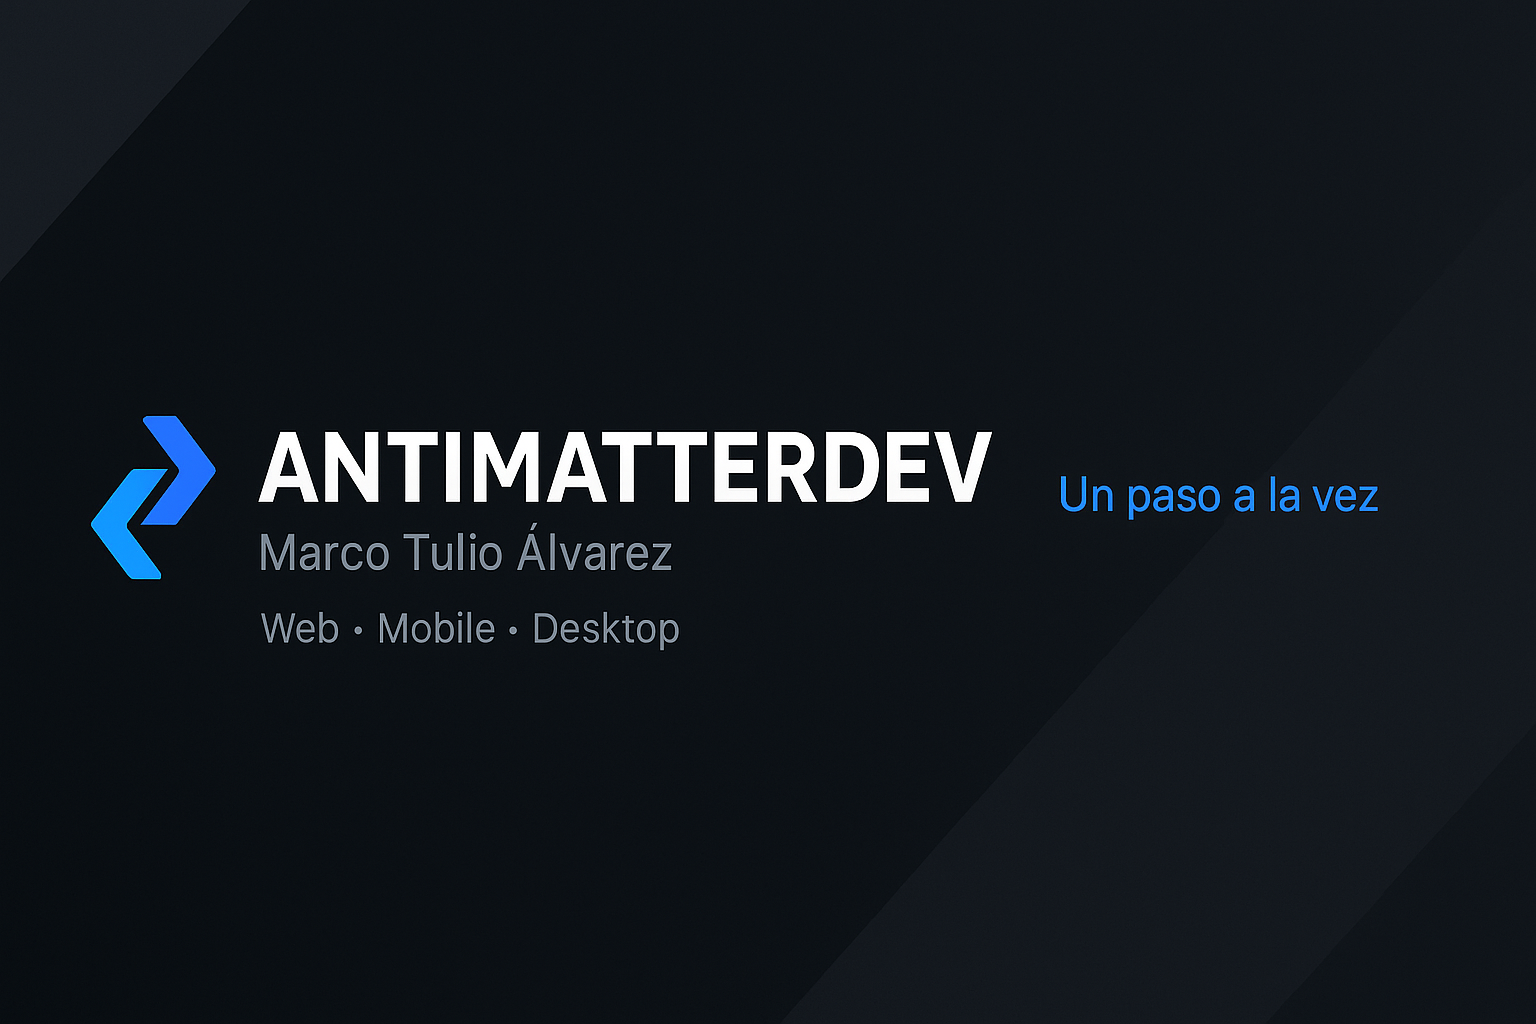
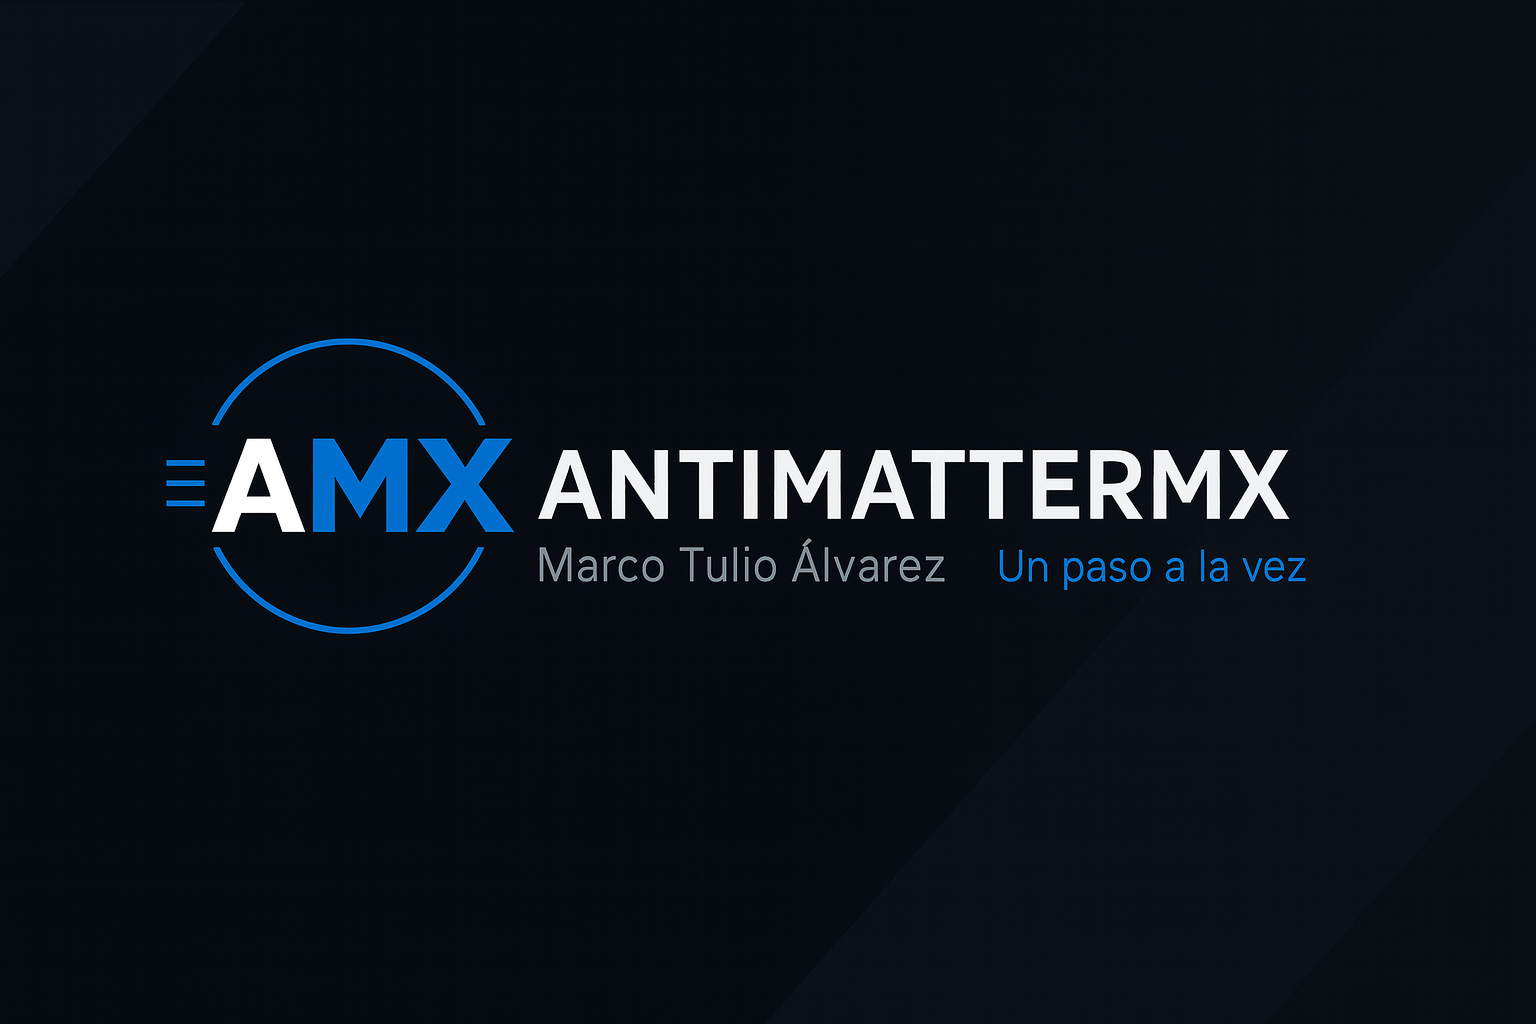
Cambios

diff --git a/README.md b/README.md
@@ -1,51 +1,53 @@
 <p align="center">
-  <img src="./resources/Antimatter.png" alt="Banner AntimatterDev" />
+  <img src="https://antimatter-mx.vercel.app/og-default.png" alt="AntimatterMX Banner" width="820"/>
 </p>
 
-# 👋 Hola, soy Marco Tulio Álvarez Barajas (Antimatter)
+# AntimatterMX — Prototipo
 
-💻 Desarrollador de software apasionado por crear soluciones innovadoras en **web, móvil y escritorio**.  
-🚀 Emprendedor detrás de proyectos como **AntimatterMX**, **Autopista Segura** y **New Vitta**, **MuscleMan**.  
-🌌 Amante de la tecnología, la programación y la creatividad.
+Soy **Marco Tulio Álvarez Barajas (AntimatterDev)**. Desarrollo **software, web y apps móviles** con enfoque en calidad, performance y resultados medibles.  
+Este repositorio/documento es **un prototipo** y refleja el estado actual de mis proyectos.
 
----
-
-## 🚀 Proyectos Destacados
-
-- 🔹 [**AntimatterDev**](#) → Servicios de desarrollo de software, web y apps móviles.  
-- 🔹 [**Autopista Segura**](#) → Sistema de monitoreo y control de velocidad en carreteras con C# y SQL Server.  
-- 🔹 [**New Vitta**](#) → Sistema de gestión para una clínica de rehabilitación (C#, SQL Server, customtkinter).  
-- 🔹 [**MuscleMan**](#) → Plataforma de administración de gimnasios.  
-- 🔹 [**Landmine 3D**](#) → Herramienta de modelado 3D en Python + OpenGL.
+- 🌐 Sitio: **https://antimatter-mx.vercel.app**
+- ✉ Contacto: **antimattermx@proton.me**
 
 ---
 
-## 🛠 Tecnologías & Herramientas
+## Proyectos
+> Estado estimado a la fecha. Se actualiza con frecuencia.
 
-![JavaScript](https://img.shields.io/badge/-JavaScript-05122A?style=flat&logo=javascript)  
-![Python](https://img.shields.io/badge/-Python-05122A?style=flat&logo=python)  
-![C#](https://img.shields.io/badge/-C%23-05122A?style=flat&logo=csharp)  
-![SQL Server](https://img.shields.io/badge/-SQL%20Server-05122A?style=flat&logo=microsoftsqlserver)  
-![React](https://img.shields.io/badge/-React-05122A?style=flat&logo=react)  
-![Astro](https://img.shields.io/badge/-Astro-05122A?style=flat&logo=astro)  
-![Flutter](https://img.shields.io/badge/-Flutter-05122A?style=flat&logo=flutter)  
-![.NET](https://img.shields.io/badge/-.NET-05122A?style=flat&logo=dotnet)  
-
----
-
-## 📊 Estadísticas
-
-![Tulio's GitHub stats](https://github-readme-stats.vercel.app/api?username=ElTulioAlvarez&show_icons=true&theme=radical&cache_seconds=60)  
-![Top Langs](https://github-readme-stats.vercel.app/api/top-langs/?username=ElTulioAlvarez&layout=compact&theme=radical&cache_seconds=60)
-
----
-
-## 🌐 Conecta conmigo
-
-[![LinkedIn](https://img.shields.io/badge/-LinkedIn-05122A?style=flat&logo=linkedin)](https://www.linkedin.com/)  
-[![Portfolio](https://img.shields.io/badge/-AntimatterDev-05122A?style=flat&logo=vercel)](https://antimattermx.netlify.app)  
-✉ **Correo**: antimattermx@proton.me  
+| Proyecto | % | Stack | Descripción breve |
+|---|---:|---|---|
+| **AntimatterMX (sitio web)** | **70%** | Astro, CSS, Vercel | Landing, servicios, SEO y performance. Diseño oscuro con acentos en azul. |
+| **Branding AntimatterMX** | **80%** | Figma, SVG | Logotipo AMX, guidelines, favicons y assets sociales. |
+| **Autopista Segura** | **65%** | C# .NET Framework 4.8, SQL Server | Registro de casetas, tiempos por tramo, cálculo de velocidad e infracciones. Arquitectura por capas. |
+| **Sistema Peaje (extensión)** | **40%** | C# .NET, SQL Server | Licenciamiento, reportes y validación de paso en 24h entre casetas. |
+| **LPR/ALPR (YOLO + OCR)** | **15%** | Python, YOLO, OCR | Reconocimiento de placas vehiculares para integración con Autopista Segura. |
+| **New Vitta (desktop)** | **55%** | C# .NET, SQL Server, customtkinter | Gestión de internos, ingresos/egresos, medicamentos, registro de psicólogos/doctores, reportes. |
+| **New Vitta (web)** | **60%** | Reflex.dev (Python) | Página institucional y módulos públicos. |
+| **Comunidad Conectada / SIGEA (app)** | **30%** | Flutter, Drift/SQLite | Roles (Admin/Docente/Alumno), feed comunitario, base de datos local. |
+| **MuscleMan (gimnasio)** | **35%** | C# .NET, SQL Server | Administración de membresías, caja, usuarios y reportes. |
+| **Landmine 3D** | **20%** | Python, PyOpenGL | Herramienta de modelado 3D propia para visualización y assets técnicos. |
+| **NovaTec Business Solutions** | **30%** | Astro/React (plan), Material de marca | Landing B2B, catálogo de hardware/servicios y contacto. |
 
 ---
 
-✨ *“Un paso a la vez, pero siempre hacia adelante”*
+## Tecnologías
+**Lenguajes:** JavaScript/TypeScript, Python, C#, SQL.  
+**Frontend:** Astro, React, Tailwind (ligero), Flutter.  
+**Backend/Escritorio:** .NET Framework/6+, Python (FastAPI/Reflex), SQL Server, SQLite.  
+**DevOps:** Vercel, GitHub Actions (plan), CI/CD básico.  
+**IA/Visión:** YOLO, OCR, OpenCV (experimentos).
+
+---
+
+## Filosofía
+- **Claridad y simplicidad** en la UI.  
+- **Medible antes que opinable**: métricas de rendimiento y DX.  
+- **Iteración rápida**: “*Un paso a la vez*”.
+
+---
+
+## Estado
+Este documento es un **prototipo vivo**. Pueden existir módulos en construcción, rutas por definir y cambios de arquitectura conforme escalan los proyectos.
+
+> Si quieres colaborar o tienes un proyecto en mente, escríbeme a **antimattermx@proton.me**.
